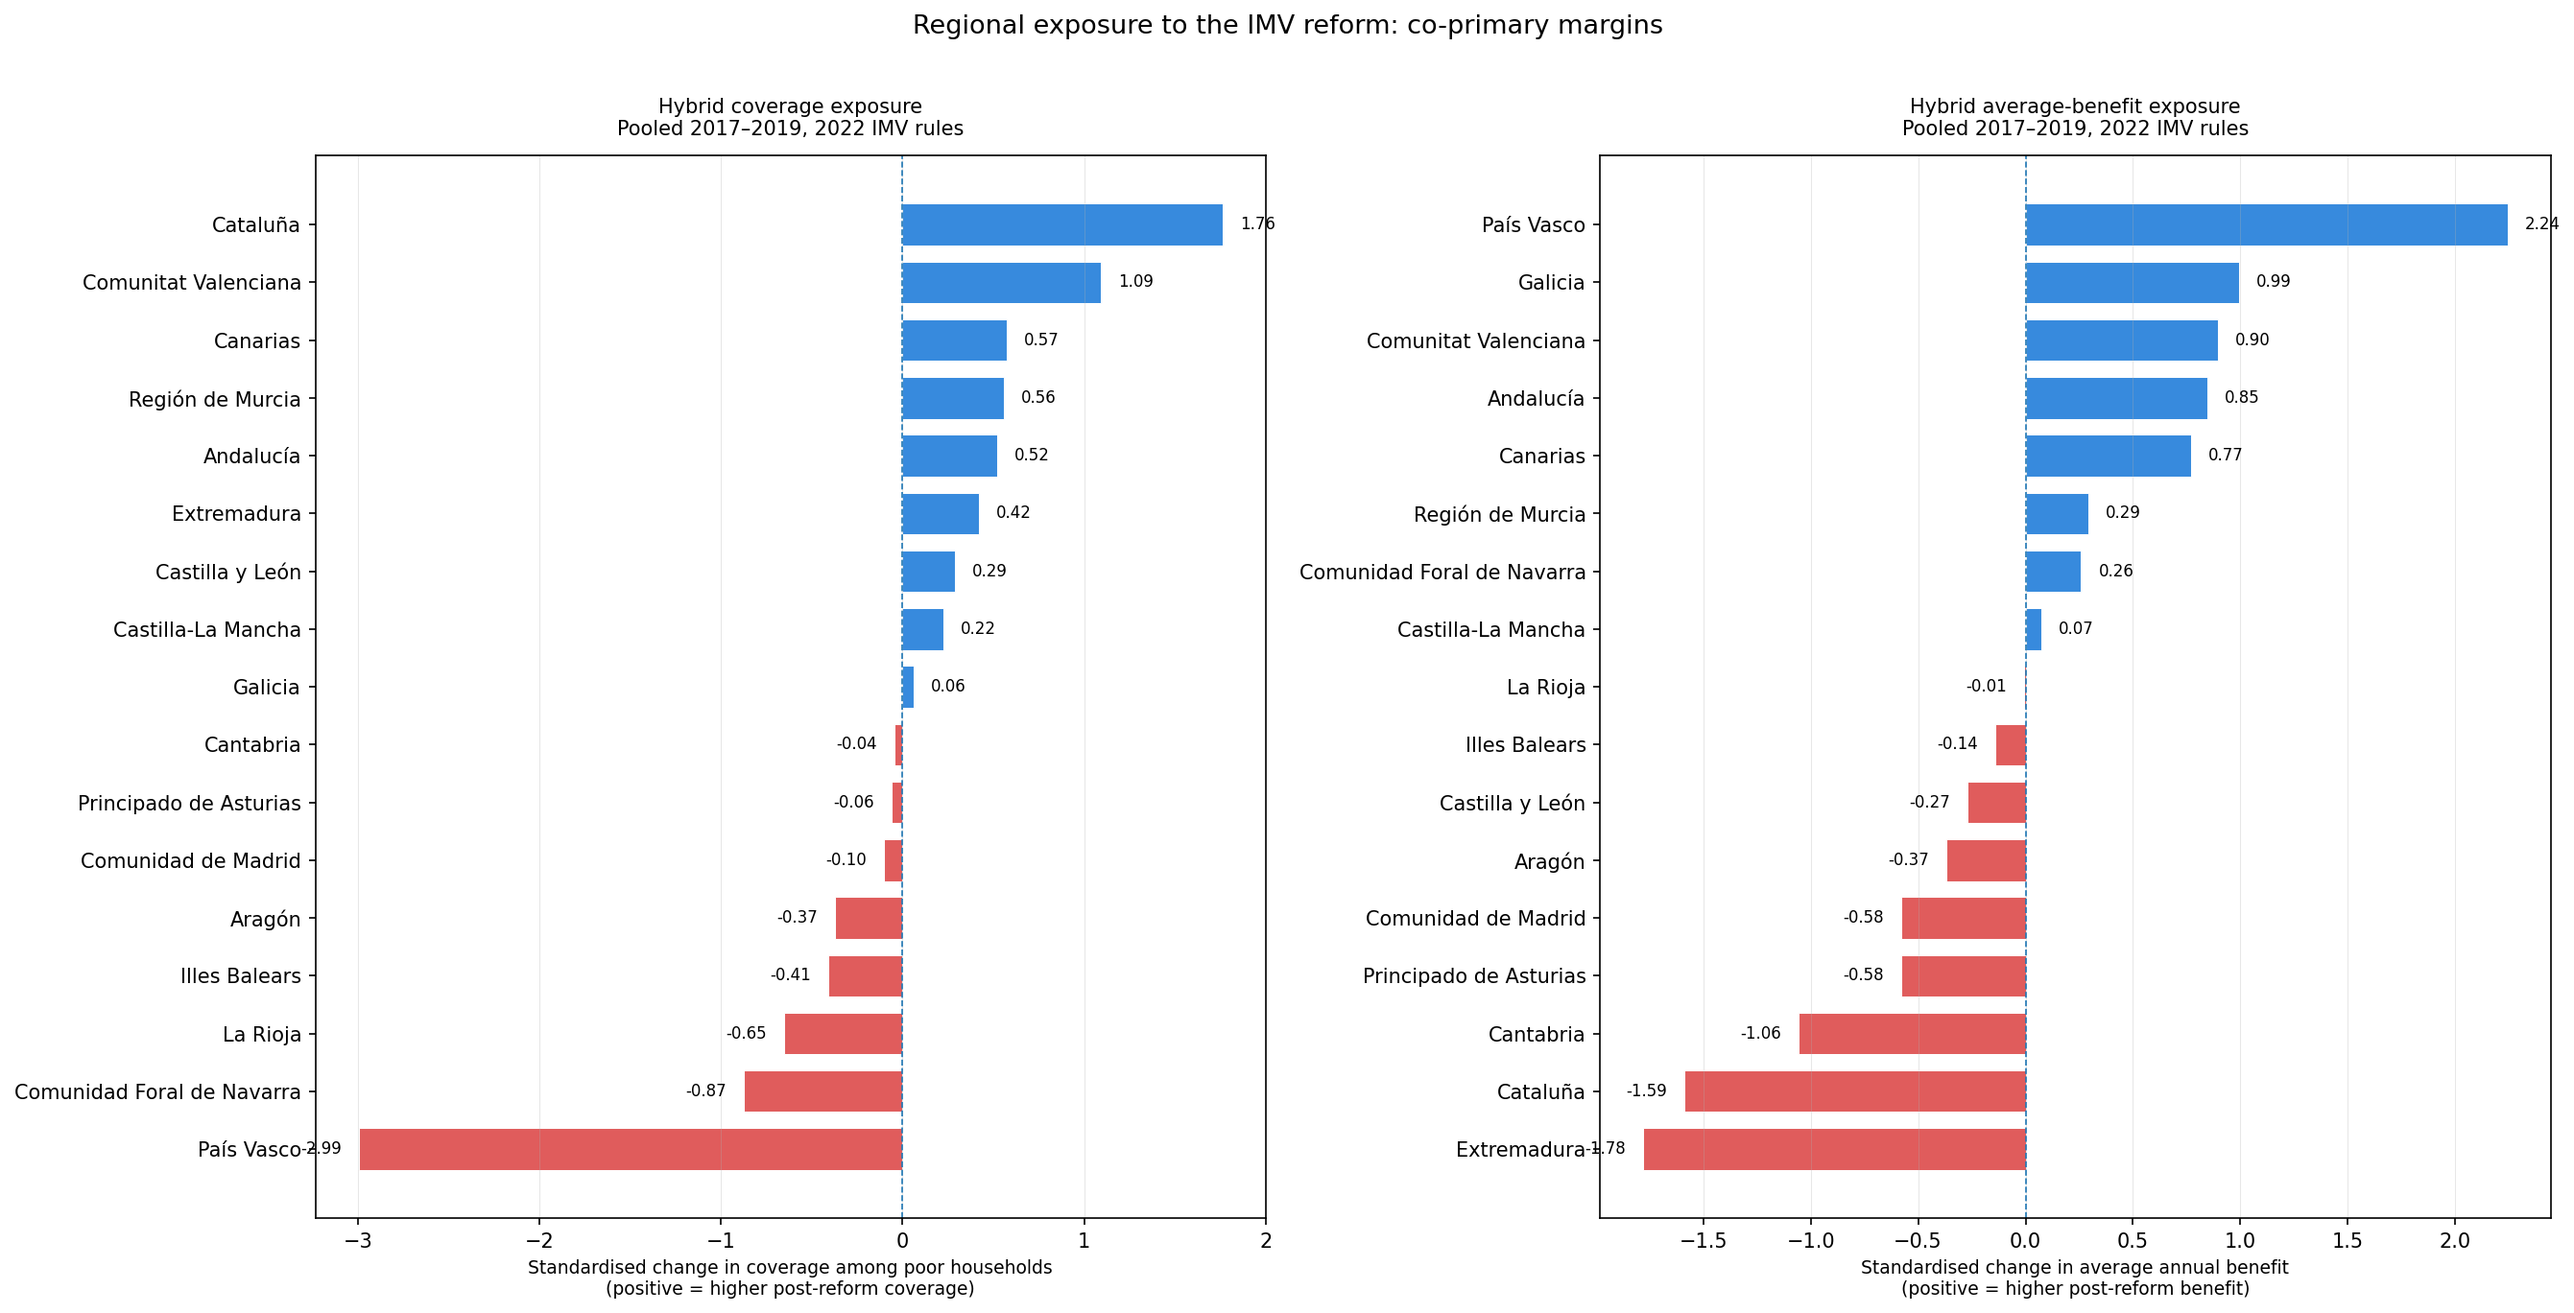
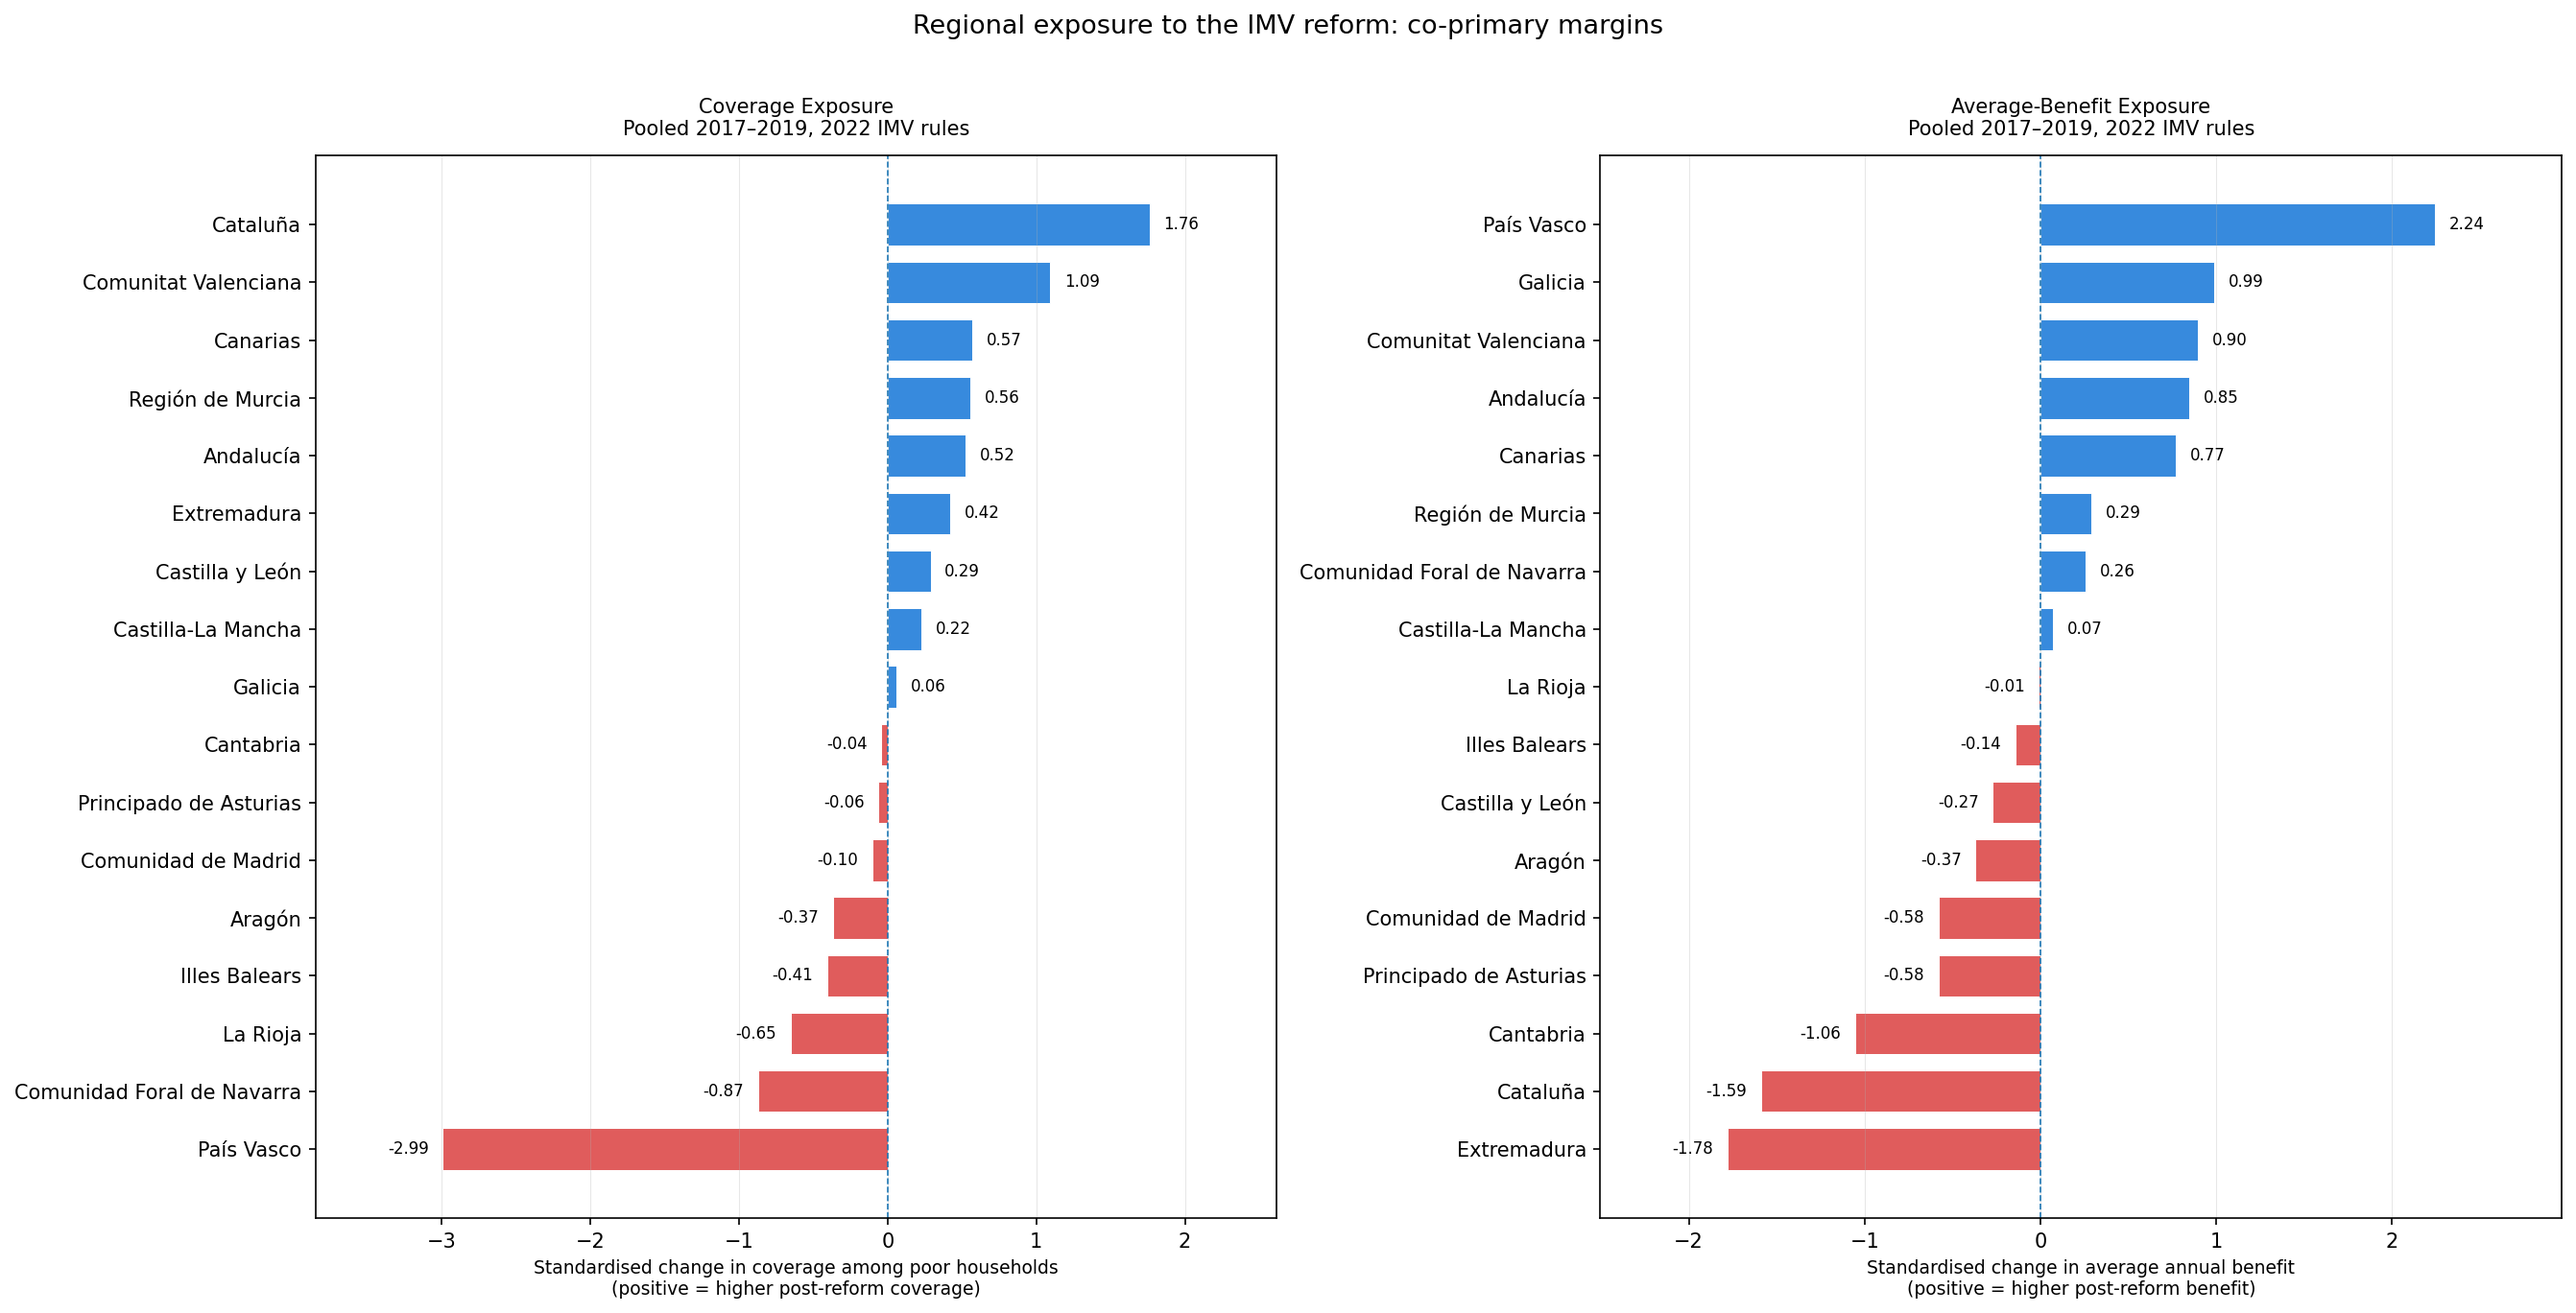
Clean Graph

diff --git a/src/exposure_io.py b/src/exposure_io.py
@@ -144,7 +144,7 @@ def plot_exposure(
     plot_settings = [
         {
             "column": coverage_spec,
-            "title": "Hybrid coverage exposure",
+            "title": "Coverage Exposure",
             "xlabel": (
                 "Standardised change in coverage among poor households\n"
                 "(positive = higher post-reform coverage)"
@@ -152,7 +152,7 @@ def plot_exposure(
         },
         {
             "column": benefit_spec,
-            "title": "Hybrid average-benefit exposure",
+            "title": "Average-Benefit Exposure",
             "xlabel": (
                 "Standardised change in average annual benefit\n"
                 "(positive = higher post-reform benefit)"
@@ -174,6 +174,13 @@ def plot_exposure(
 
         values = df_plot[column].to_numpy(dtype=float)
         regions = df_plot["region"].to_numpy()
+        
+        xmin = np.nanmin(values)
+        xmax = np.nanmax(values)
+        padding = 0.18 * (xmax - xmin)
+
+        ax.set_xlim(xmin - padding, xmax + padding)
+        
 
         colors = [
             "#378ADD" if value >= 0 else "#E05C5C"
